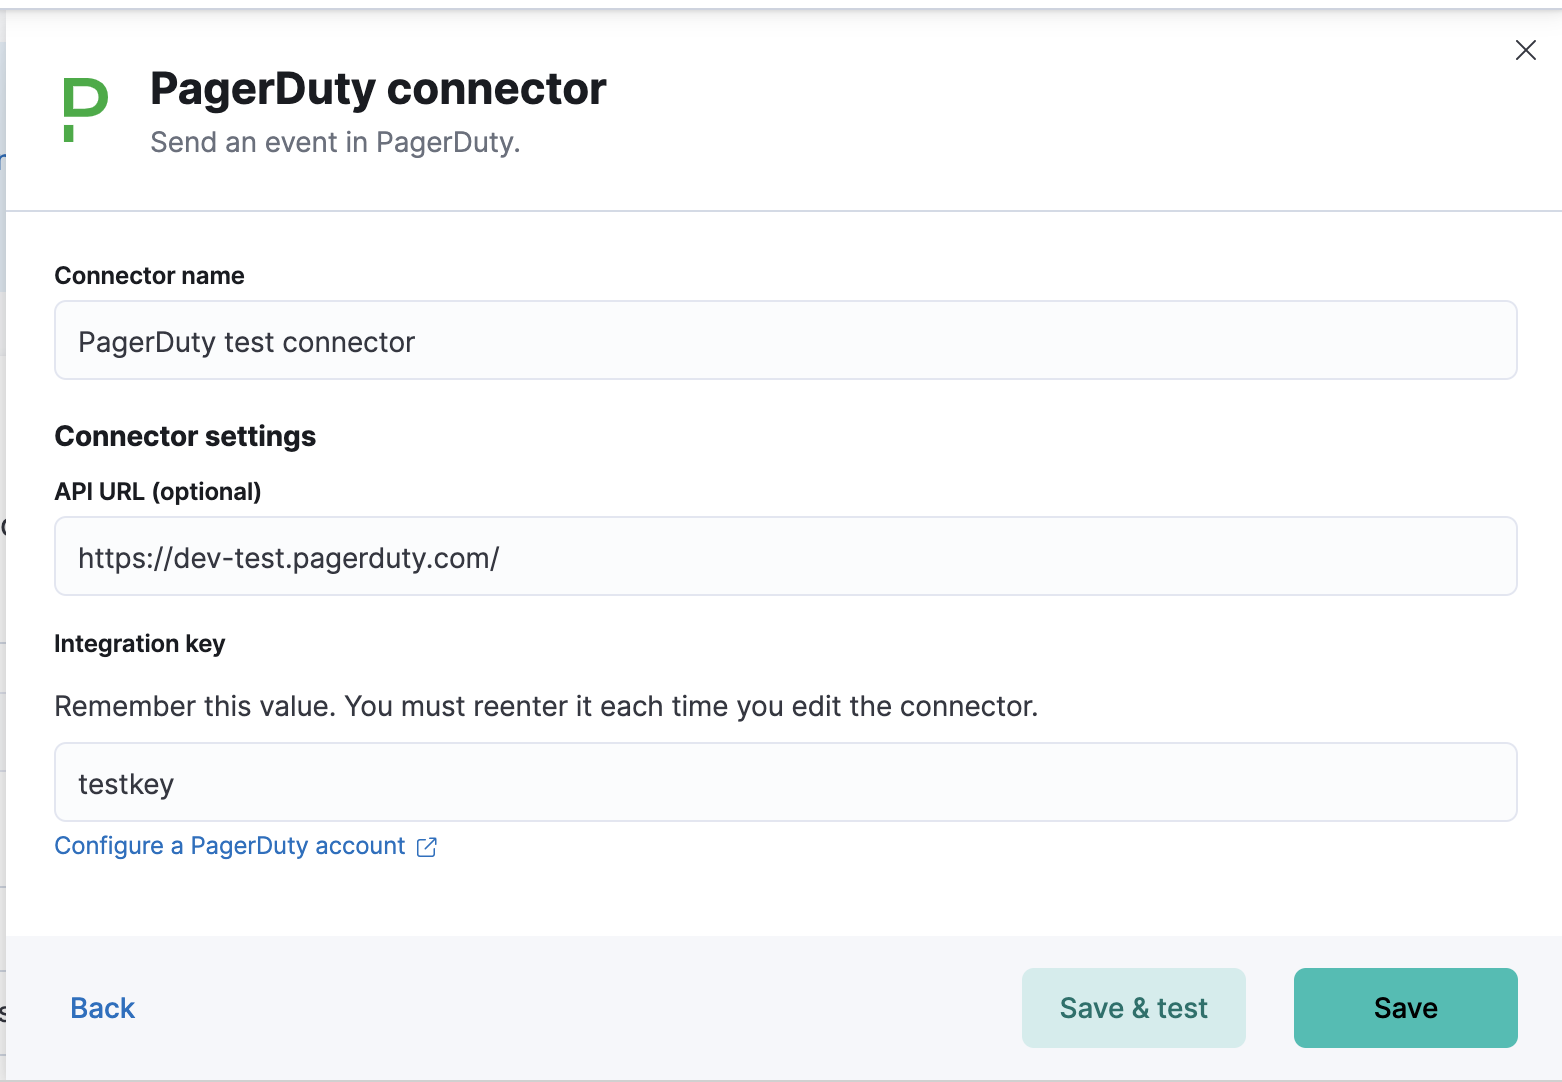
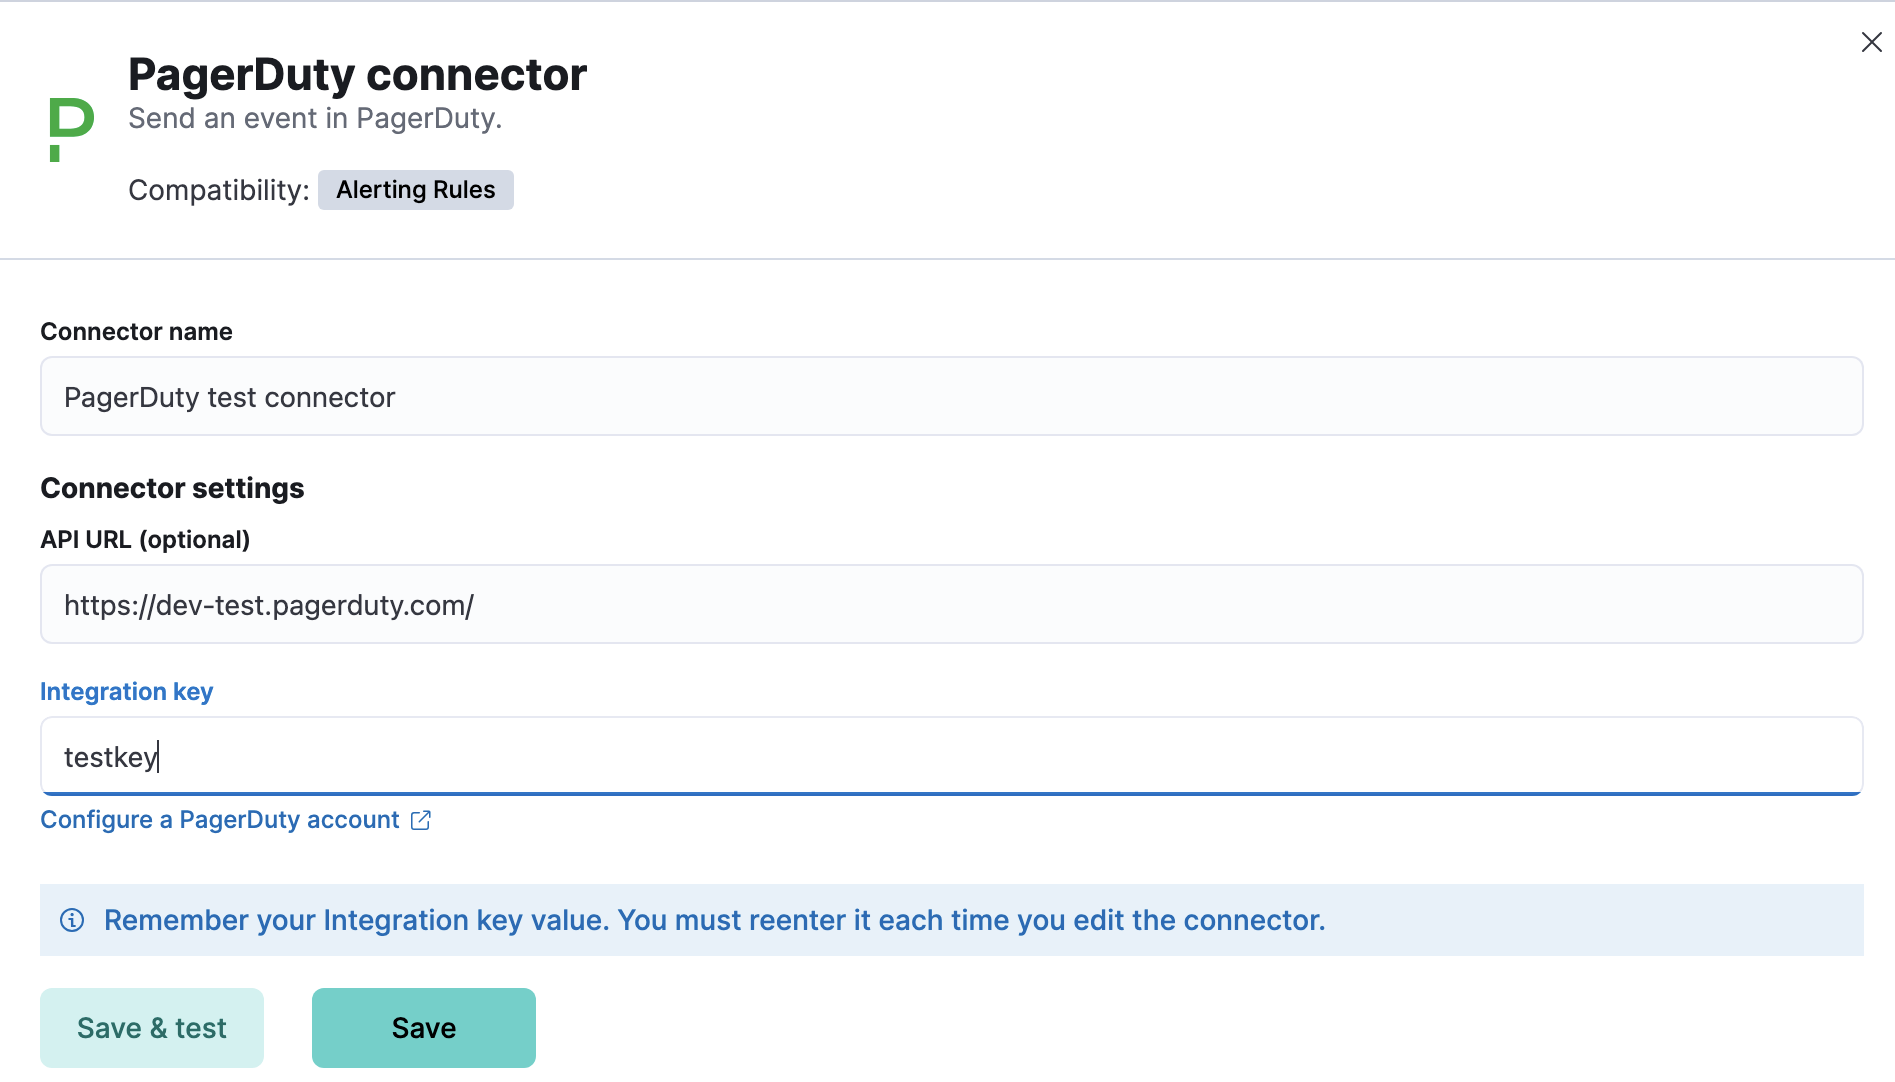
[DOCS] Automate PagerDuty connector screenshots (#165413)
## Summary

This PR automates two screenshots in
https://www.elastic.co/guide/en/kibana/master/pagerduty-action-type.html

Changed region(s): [[0.0, 0.0, 1.0, 1.0], [0.8297, 0.8845, 0.9834, 0.976]]

diff --git a/x-pack/test/screenshot_creation/apps/response_ops_docs/stack_connectors/connector_types.ts b/x-pack/test/screenshot_creation/apps/response_ops_docs/stack_connectors/connector_types.ts
@@ -171,5 +171,20 @@ export default function ({ getService, getPageObjects }: FtrProviderContext) {
       await commonScreenshots.takeScreenshot('webhook-params-test', screenshotDirectories);
       await testSubjects.click('euiFlyoutCloseButton');
     });
+
+    it('pagerduty connector screenshots', async () => {
+      await pageObjects.common.navigateToApp('connectors');
+      await pageObjects.header.waitUntilLoadingHasFinished();
+      await actions.common.openNewConnectorForm('pagerduty');
+      await testSubjects.setValue('nameInput', 'PagerDuty test connector');
+      await testSubjects.setValue('pagerdutyApiUrlInput', 'https://dev-test.pagerduty.com/');
+      await testSubjects.setValue('pagerdutyRoutingKeyInput', 'testkey');
+      await commonScreenshots.takeScreenshot('pagerduty-connector', screenshotDirectories);
+      await testSubjects.click('create-connector-flyout-save-test-btn');
+      await testSubjects.click('toastCloseButton');
+      await testSubjects.setValue('eventActionSelect', 'trigger');
+      await commonScreenshots.takeScreenshot('pagerduty-params-test', screenshotDirectories);
+      await testSubjects.click('euiFlyoutCloseButton');
+    });
   });
 }
